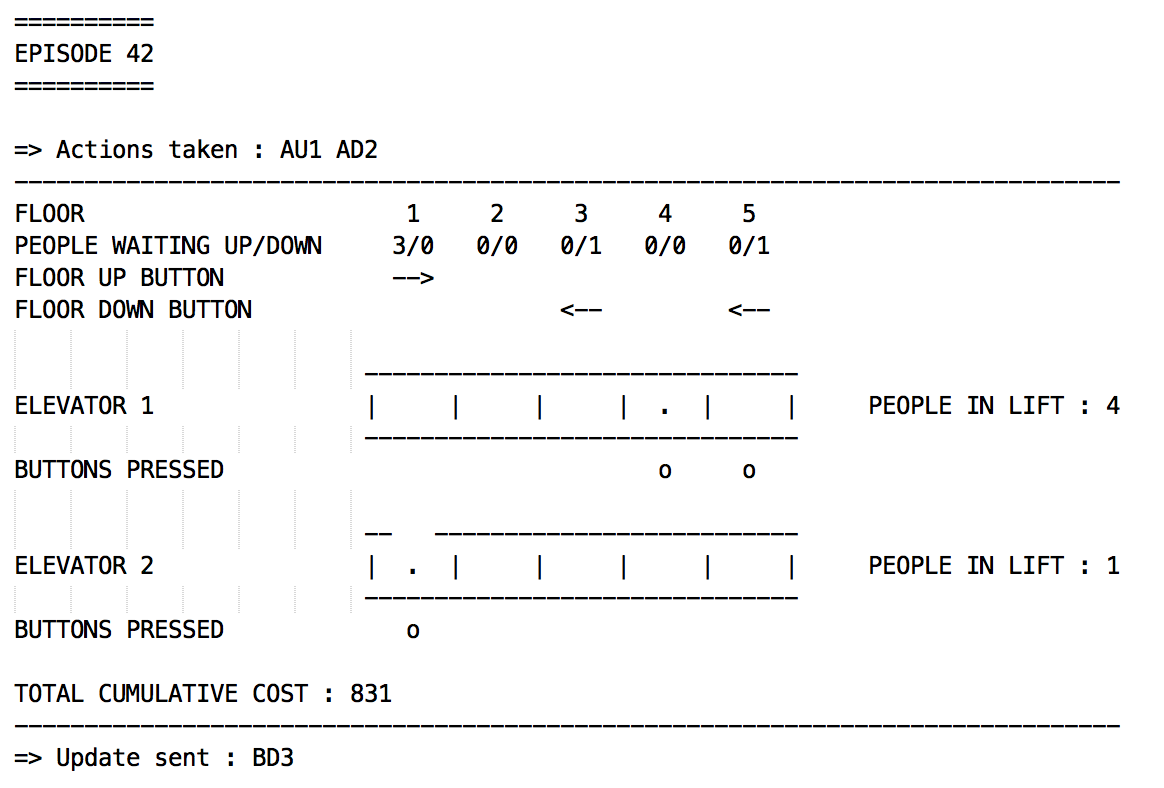
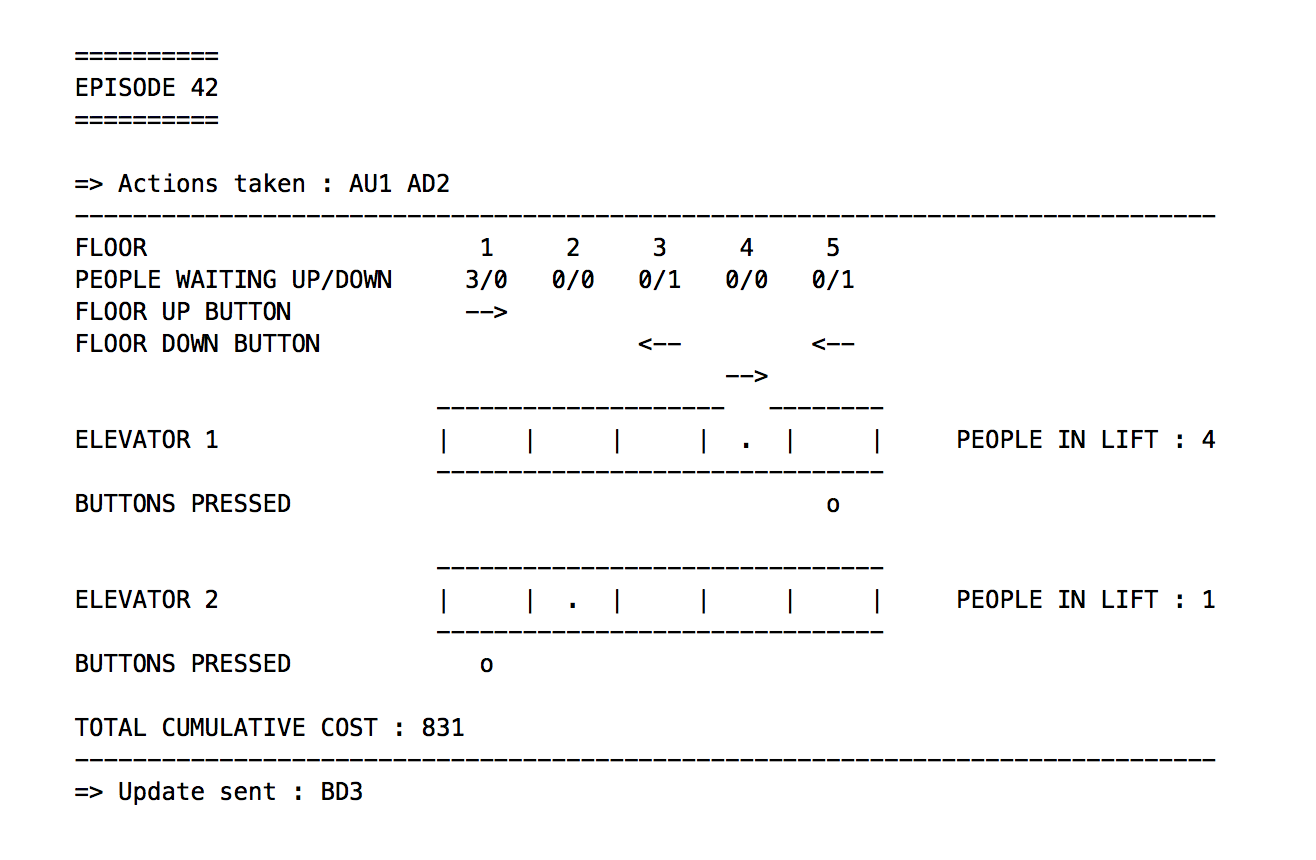
added trace to README

diff --git a/README.md b/README.md
@@ -33,13 +33,11 @@ You may have a look at SimpleAgent.py and run.sh for an example agent and script
 
 ## Sample Print Trace:
 
-==========
-EPISODE 42
-==========
-
 ![alt tag](https://raw.githubusercontent.com/suragnair/lift-sim/master/sample_trace.png)
 
-- Actions taken : action taken by the controller based on the previous state  
+- Actions taken : action taken by the controller based on the previous state. Based on these actions, a simulation is performed and printed below.
 - People Waiting Up/Down : number of people waiting to go up and down on each floor (note that this is not explicitly available to the agent)
 - Floor Up/Down Buttons : In the above Episode, the BD is pressed for floors 3 and 5, and BU is pressed for floor 1
-- Elevators : A dot shows which floor the elevator is on 
+- Elevators : A dot shows which floor the elevator is on. If it is open, then a gap is shown with the direction of the light
+- Elevator Buttons : Buttons pressed inside each elevator are shown with 'o's. For Elevator 1, button for the 5th floor is pressed while the button for the 1st floor is pressed for Elevator 2.
+- Update Sent : The additional updates that transpired in the last time step. In this case, the button 'BD3' was pressed since someone arrived at floor 3.
